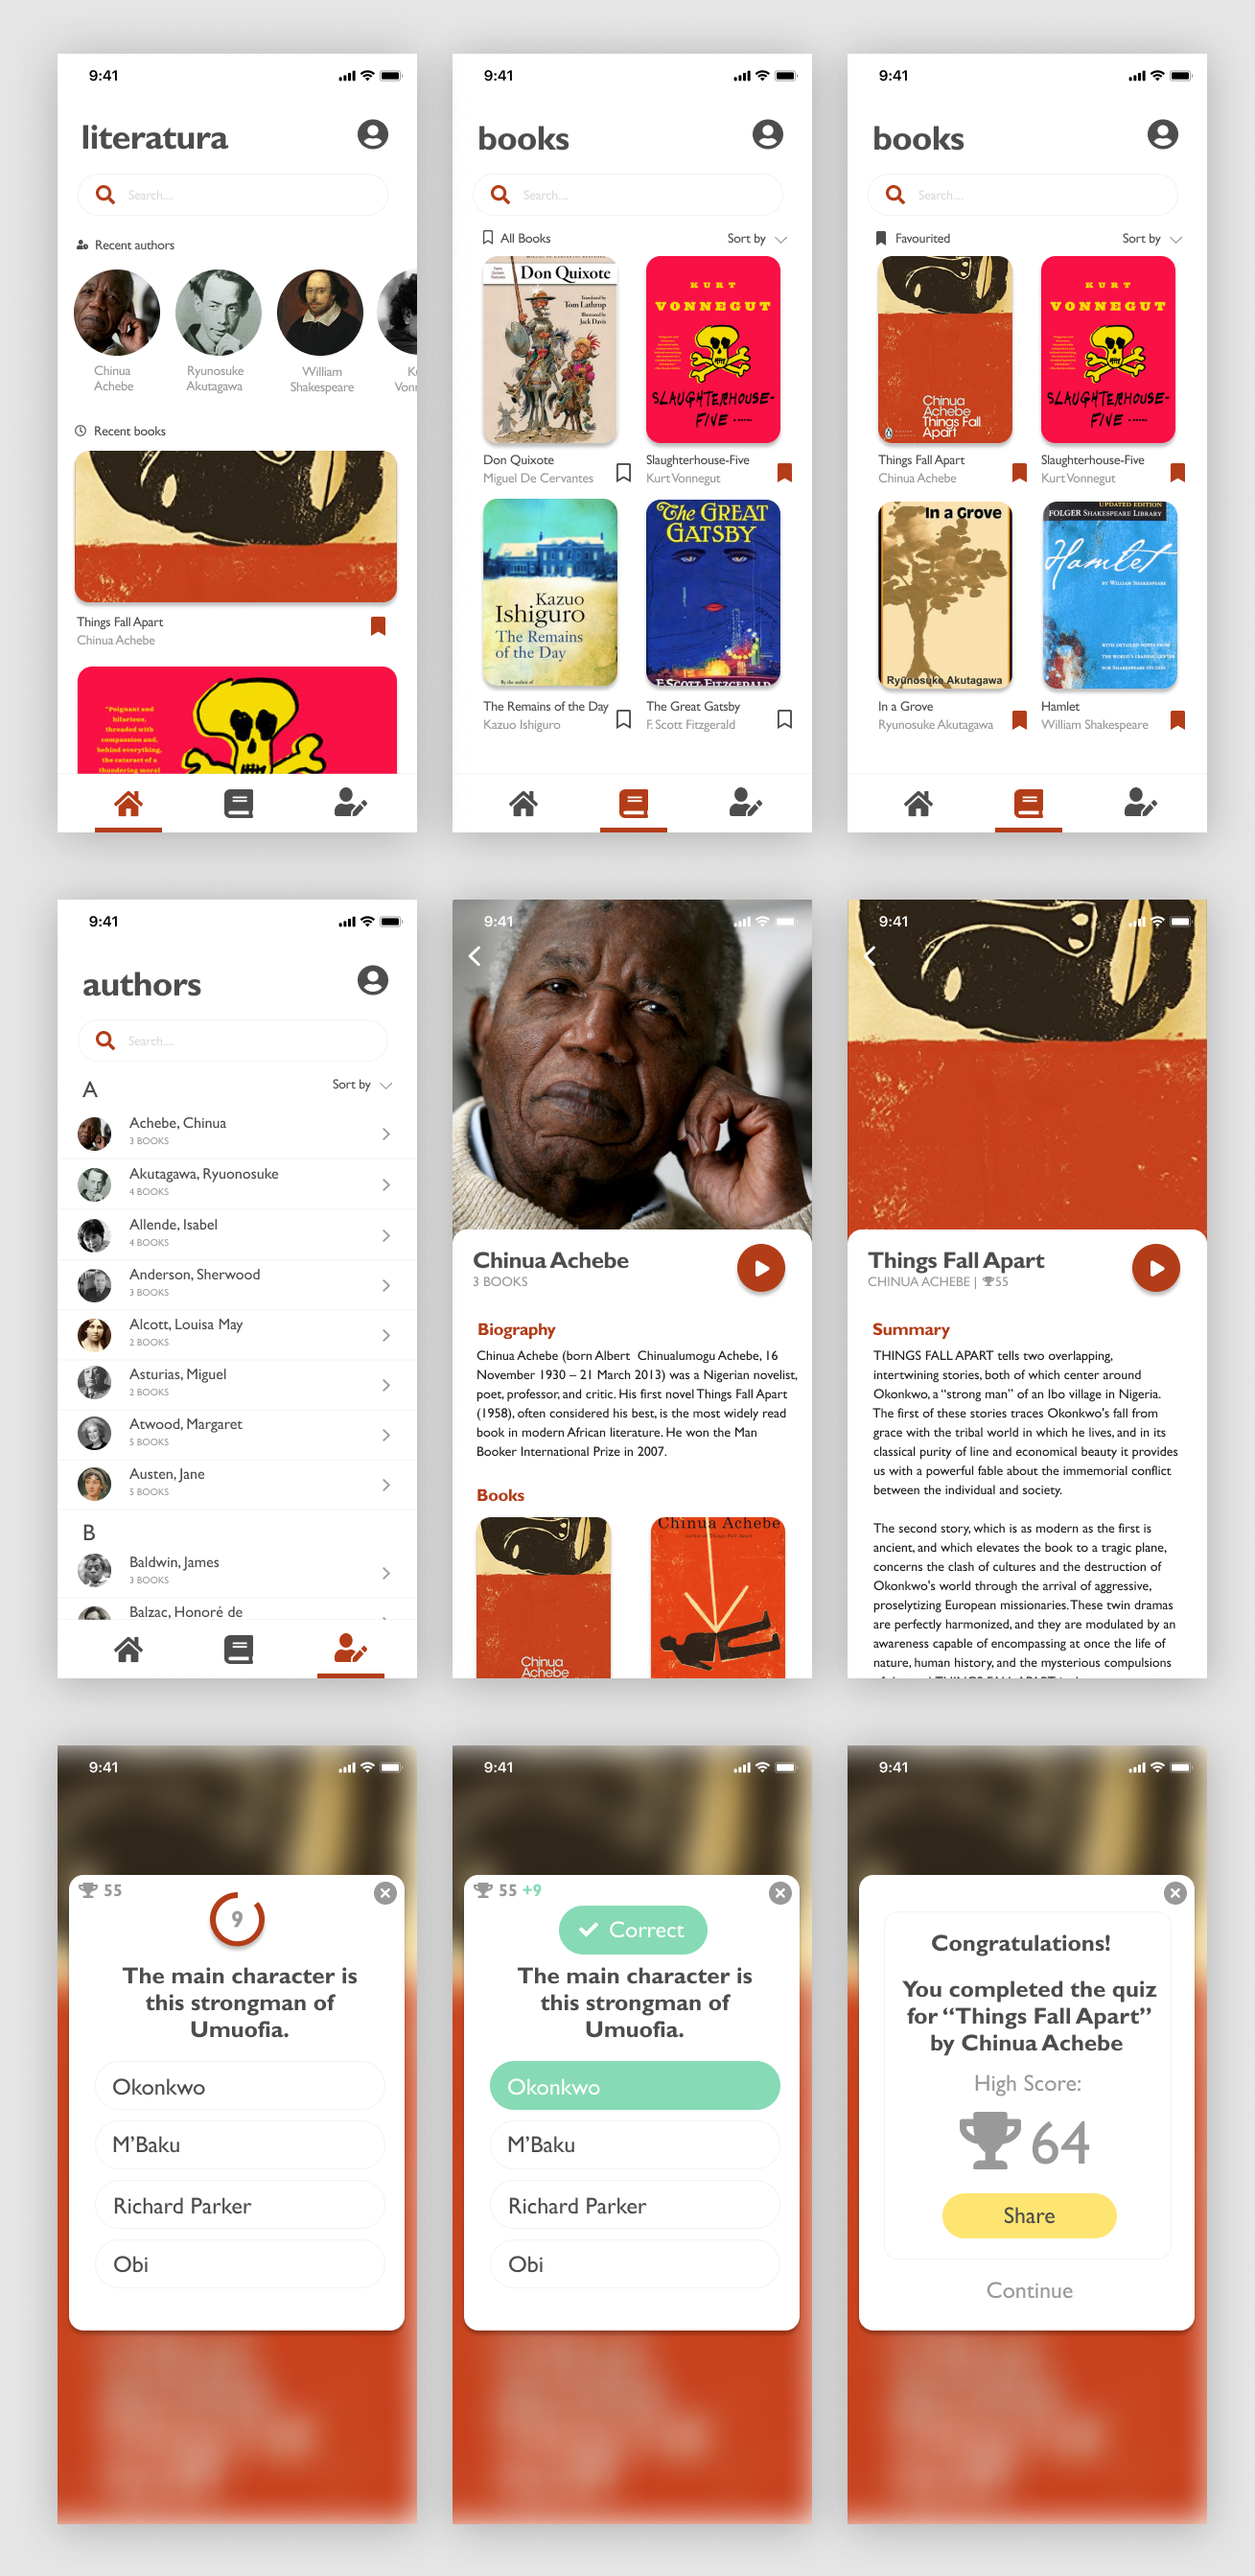
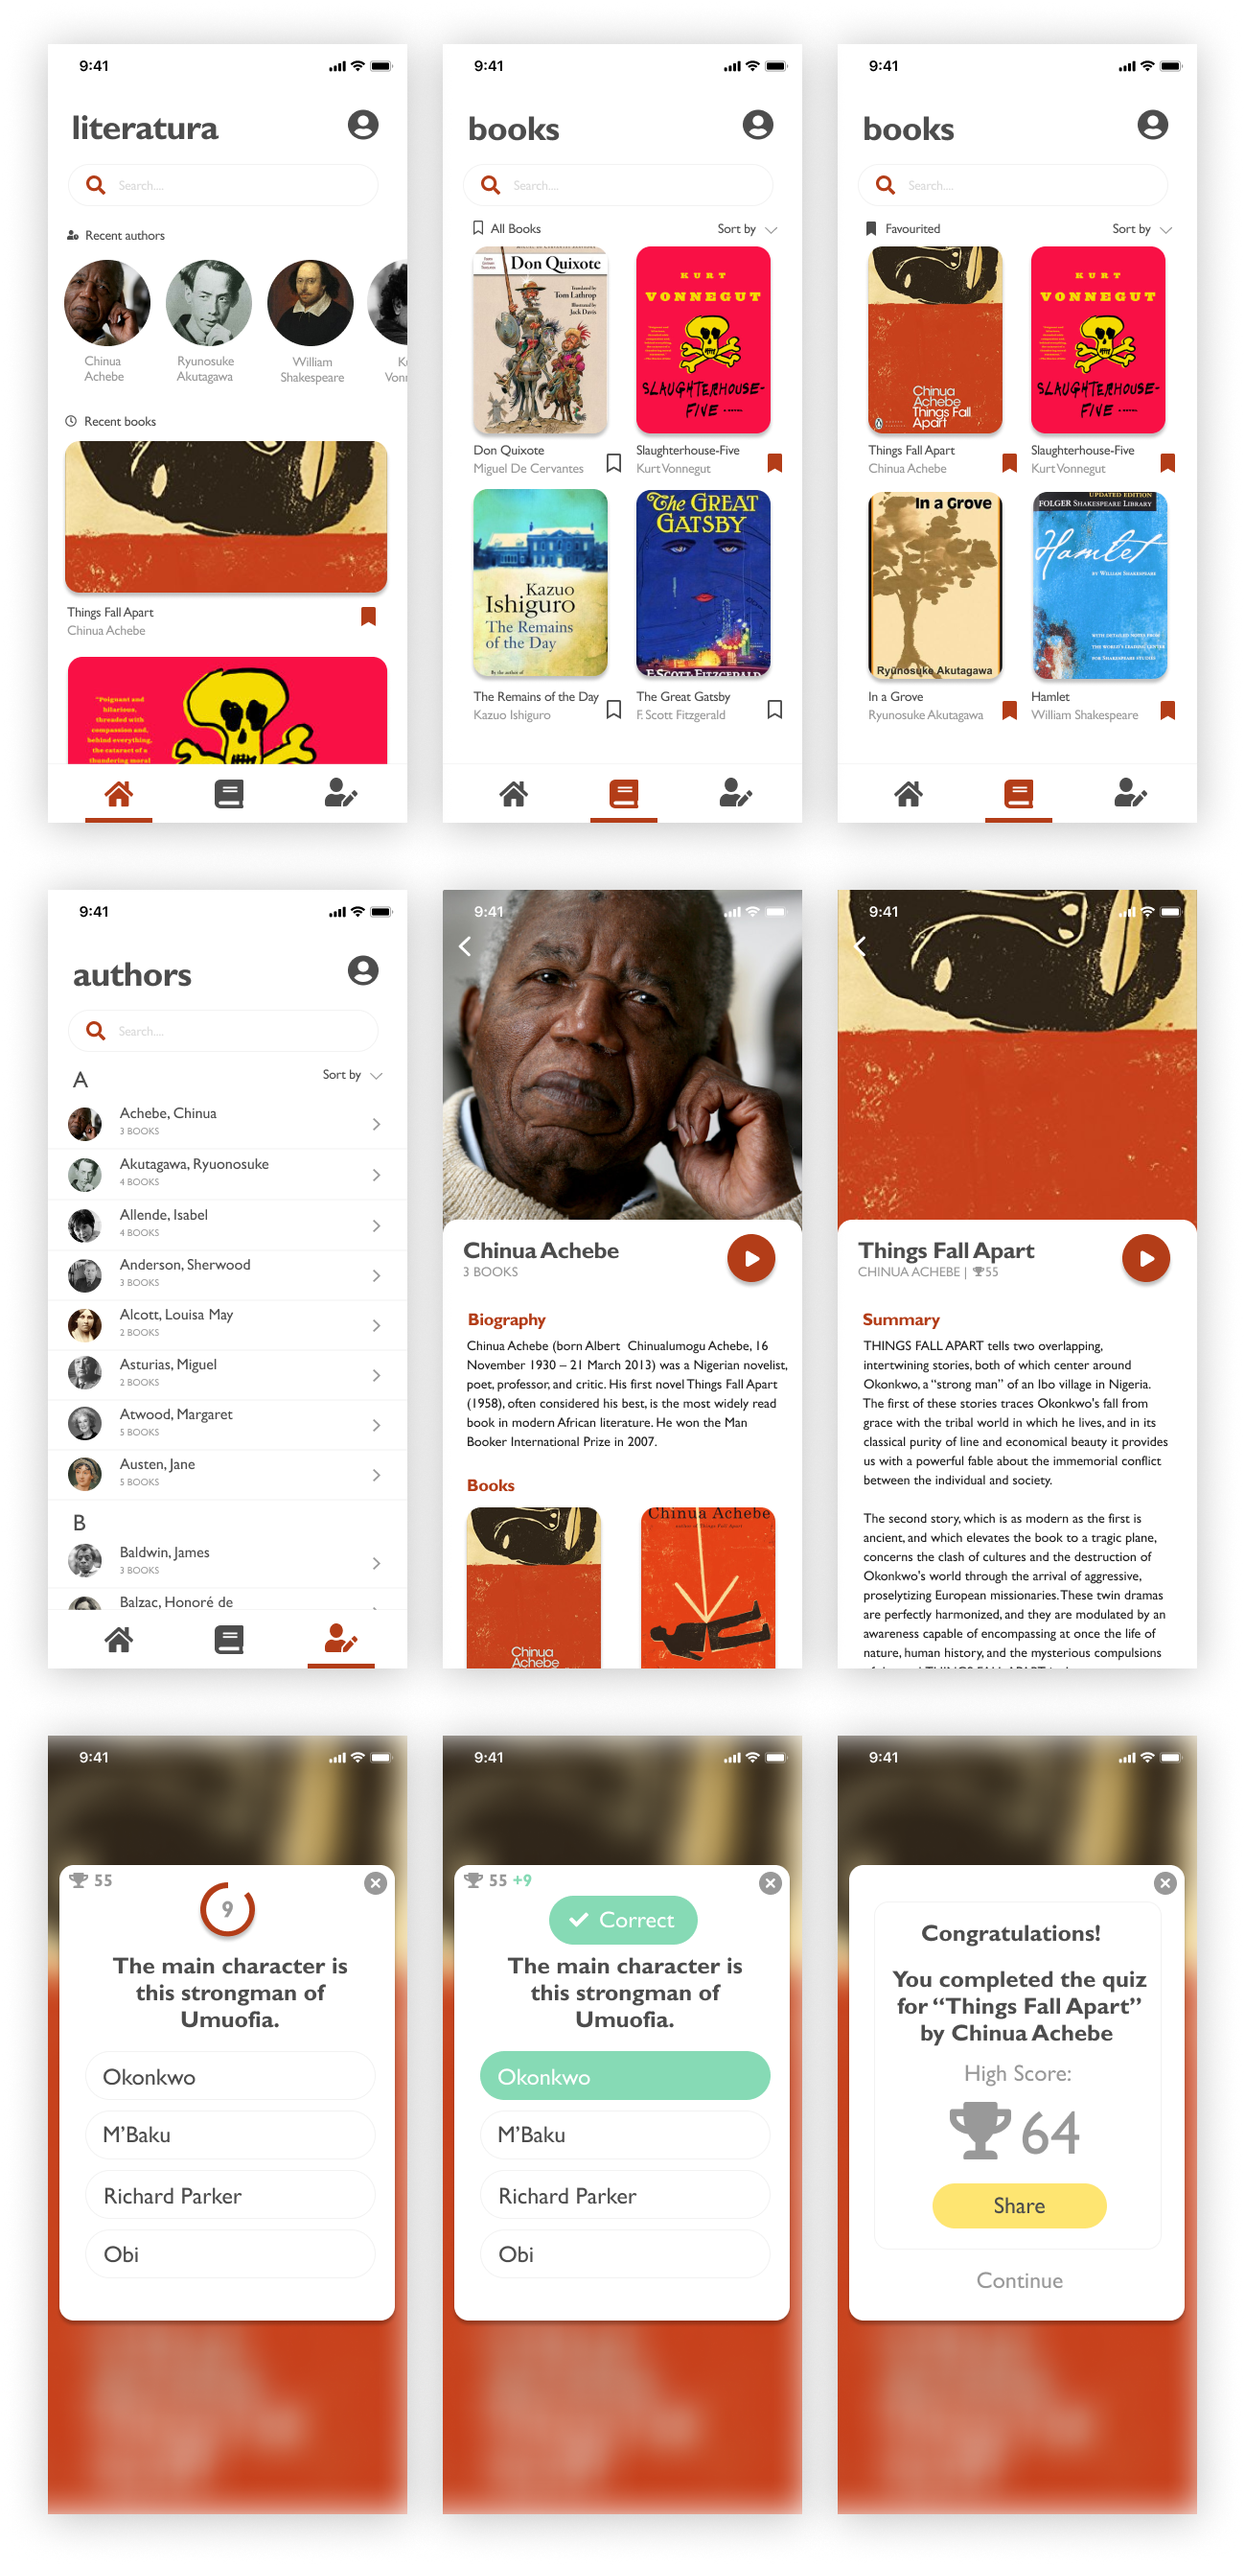
messed around with fonts and update images

Changed region(s): [[0.0, 0.0, 1.0, 1.0], [0.739, 0.7444, 0.9238, 0.8995]]

diff --git a/css/styles.css b/css/styles.css
@@ -172,7 +172,7 @@
       margin: 0 0 0 38px;
       padding-top: 52px;
       font-size: 34px;
-      color: #474747;
+      color: #666666;
     }
 
     .project-text h1,
@@ -196,7 +196,7 @@
       padding-top: -3em;
       margin: 0 0 0 38px;
       font-family: 'Open Sans', serif;
-      color: #8d8d8d;
+      color: #666666;
       font-size: 15px;
       font-weight: lighter;
     }
@@ -213,7 +213,7 @@
       left: 0em;
       z-index: 8;
       display: block;
-      color: #474747;
+      color: #666666;
     }
 
     .back_to_home:hover{
@@ -241,7 +241,7 @@
       animation: 0.6s ease-in-out 0s 1 slideInFromBottom;
       display: table;
       font-family: 'Nunito', sans-serif;
-      color: #474747;
+      color: #666666;
       font-size: 4em;
       line-height: 1em;
     }
@@ -252,7 +252,7 @@
       font-size: 1.1em;
       font-family: 'Open Sans', sans-serif;
       font-weight: 300;
-      color: #4a4a4a;
+      color: #666666;
       margin: 15px 0;
       line-height: 2em;
     }

diff --git a/literatura.html b/literatura.html
@@ -14,7 +14,7 @@
   <link rel="stylesheet" href="https://use.fontawesome.com/releases/v5.6.3/css/all.css" integrity="sha384-UHRtZLI+pbxtHCWp1t77Bi1L4ZtiqrqD80Kn4Z8NTSRyMA2Fd33n5dQ8lWUE00s/" crossorigin="anonymous">
   <link href="https://fonts.googleapis.com/css?family=Nunito:700" rel="stylesheet">
   <link href="https://fonts.googleapis.com/css?family=Open+Sans:400" rel="stylesheet">
-  <link href="https://fonts.googleapis.com/css?family=Lato:700" rel="stylesheet">
+  <link href="https://fonts.googleapis.com/css?family=Source+Sans+Pro" rel="stylesheet">
 <title>literatura</title>
 </head>
 

diff --git a/index.html b/index.html
@@ -13,7 +13,7 @@
   <link rel="stylesheet" type="text/css" media="only screen and (min-device-width: 801px)" href="css/styles.css" />
 <link href="https://fonts.googleapis.com/css?family=Nunito:700" rel="stylesheet">
 <link href="https://fonts.googleapis.com/css?family=Open+Sans:400" rel="stylesheet">
-<link href="https://fonts.googleapis.com/css?family=Lato:700" rel="stylesheet">
+<link href="https://fonts.googleapis.com/css?family=Source+Sans+Pro:400" rel="stylesheet">
 
 <title>tim he</title>
 </head>
